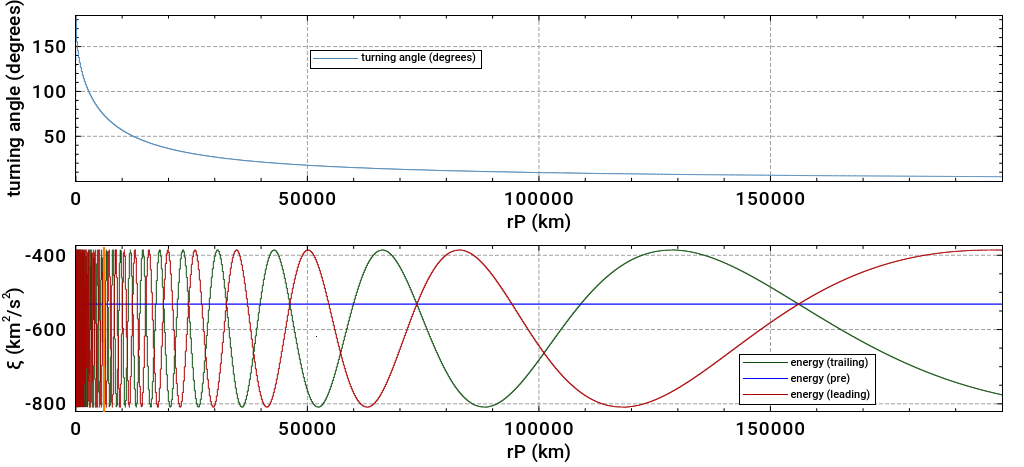
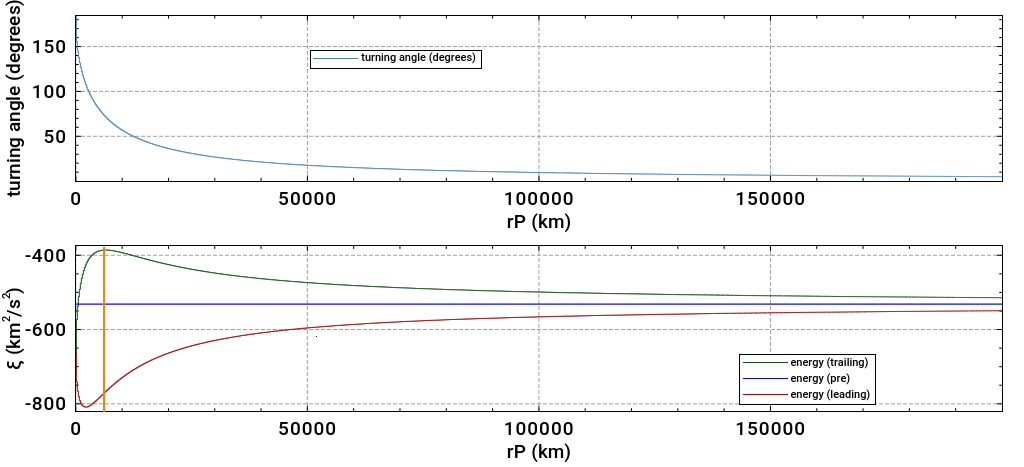
Closes #76

diff --git a/examples/imd/hw4/main.go b/examples/imd/hw4/main.go
@@ -4,8 +4,10 @@ import (
 	"fmt"
 	"math"
 	"os"
+	"time"
 
 	"github.com/ChristopherRabotin/smd"
+	"github.com/gonum/matrix/mat64"
 )
 
 const (
@@ -33,7 +35,7 @@ func main() {
 		f1b := initCSV("turnangle1b")
 		f1b.WriteString("rVenus (km), rP (km), turning angle (degrees), energy (pre), energy (trailing), energy (leading)\n")
 		for rP := 0.; rP < 200000; rP++ {
-			ψ := smd.GATurnAngle(vInf, rP, smd.Venus) * r2d // in degrees
+			ψ := smd.GATurnAngle(vInf, rP, smd.Venus) // in radians
 			// Build vectors
 			vInfVecLeading := smd.MxV33(smd.R3(-ψ), vInfVec)
 			vInfVecTrailing := smd.MxV33(smd.R3(ψ), vInfVec)
@@ -45,7 +47,7 @@ func main() {
 			}
 			ξleading := smd.NewOrbitFromRV(rVenus, vVecLeading, smd.Sun).Energyξ()
 			ξtrailing := smd.NewOrbitFromRV(rVenus, vVecTrailing, smd.Sun).Energyξ()
-			f1b.WriteString(fmt.Sprintf("%.0f,%.0f,%.3f,%.6f,%.6f,%.6f,\n", smd.Venus.Radius, rP, ψ, ξpre, ξtrailing, ξleading))
+			f1b.WriteString(fmt.Sprintf("%.0f,%.0f,%.3f,%.6f,%.6f,%.6f,\n", smd.Venus.Radius, rP, ψ*r2d, ξpre, ξtrailing, ξleading))
 		}
 		f1b.Close()
 	} else if questionNumber == 2 {
@@ -54,7 +56,39 @@ func main() {
 		ψ, rP, bT, bR, B, θ := smd.GAFromVinf(vInfInVec, vInfOutVec, smd.Earth)
 		fmt.Printf("ψ=%.3f deg\trP=%.3f km\tbT=%.3f km\tbR=%.3f km\tB=%.3f km\tθ=%.3f deg\n", ψ*r2d, rP, bT, bR, B, θ*r2d)
 	} else {
-		fmt.Printf("TODO")
+		dtLaunch := time.Date(1989, 10, 8, 0, 0, 0, 0, time.UTC)
+		dtVenusFB := time.Date(1990, 2, 10, 0, 0, 0, 0, time.UTC)
+		dtEarthFB1 := time.Date(1990, 12, 10, 0, 0, 0, 0, time.UTC)
+		/*dtEarthFB2 := time.Date(1992, 12, 9, 0, 0, 0, 0, time.UTC)
+		dtJupiter := time.Date(1996, 3, 21, 0, 0, 0, 0, time.UTC)*/
+
+		launchR := mat64.NewVector(3, smd.Earth.HelioOrbit(dtLaunch).R()) // Position of Earth at Launch
+		venusRf, venusVf := smd.Venus.HelioOrbit(dtVenusFB).RV()          // Position of Venus at flyby
+		venusR := mat64.NewVector(3, venusRf)
+		venusV := mat64.NewVector(3, venusVf)
+		earthRFB1 := mat64.NewVector(3, smd.Earth.HelioOrbit(dtEarthFB1).R()) // Position of Earth at first flyby
+
+		_, VfEarth2Venus, _, err := smd.Lambert(launchR, venusR, dtVenusFB.Sub(dtLaunch), smd.TTypeAuto, smd.Sun)
+		if err != nil {
+			panic(err)
+		}
+		ViVenus2Earth, _, _, err := smd.Lambert(venusR, earthRFB1, dtEarthFB1.Sub(dtVenusFB), smd.TTypeAuto, smd.Sun)
+		if err != nil {
+			panic(err)
+		}
+		// Compute the v infinities
+		var vInfInVec, vInfOutVec mat64.Vector
+		vInfInVec.SubVec(venusV, VfEarth2Venus)
+		vInfOutVec.SubVec(venusV, ViVenus2Earth)
+		// Extract the data
+		vInfIn := make([]float64, 3)
+		vInfOut := make([]float64, 3)
+		for i := 0; i < 3; i++ {
+			vInfIn[i] = vInfInVec.At(i, 0)
+			vInfOut[i] = vInfOutVec.At(i, 0)
+		}
+		ψ, rP, bT, bR, B, θ := smd.GAFromVinf(vInfIn, vInfOut, smd.Venus)
+		fmt.Printf("ψ=%.3f deg\trP=%.3f km\tbT=%.3f km\tbR=%.3f km\tB=%.3f km\tθ=%.3f deg\n", ψ*r2d, rP, bT, bR, B, θ*r2d)
 	}
 }
 
